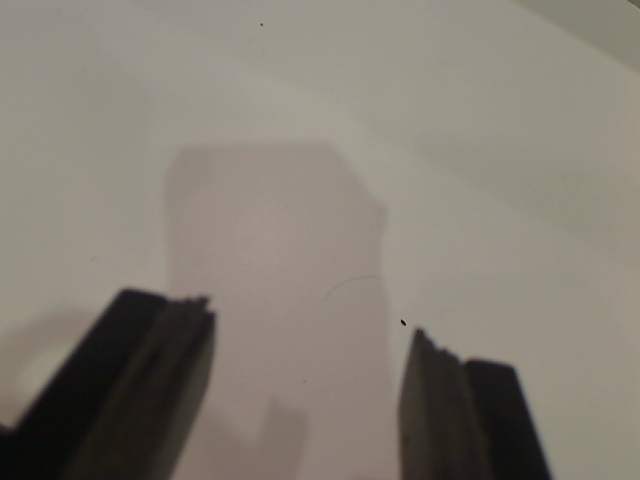
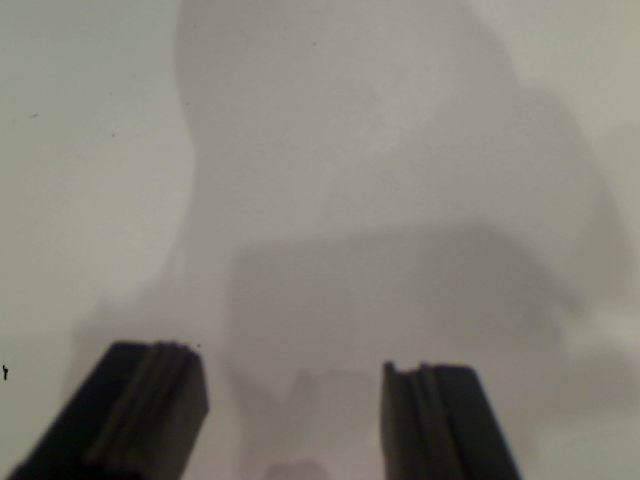
Added background image subtraction as well as updated the background image (background.png) so that the visual serving would no longer be confused by the grippers on the YouBot.

diff --git a/raw_object_perception/raw_blob_detection/src/blob_detection.cpp b/raw_object_perception/raw_blob_detection/src/blob_detection.cpp
@@ -132,31 +132,34 @@ public:
       ROS_ERROR( "Error converting from ROS image message to OpenCV IplImage" );
     }
 
-    IplImage* temp_img = cvCreateImage( cvGetSize( background_image ), IPL_DEPTH_8U, 3); 
-
-    //    This takes a background image (the gripper on a white background) and removes
-    //  it from the current image (cv_image). The results are stored again in cv_image.
-    cvSub( cv_image, background_image, temp_img, NULL ); 
+    IplImage* background_threshold = cvCreateImage( cvGetSize( background_image ), 8, 1 ); 
+    cvCvtColor( background_image, background_threshold, CV_BGR2GRAY ); 
+    cvSmooth( background_threshold, background_threshold, CV_GAUSSIAN, 7, 7 );
+    cvThreshold( background_threshold, background_threshold, 0, 255, CV_THRESH_BINARY_INV | CV_THRESH_OTSU );   
 
     //  Obtain image properties that we require. 
     master_image_width = cv_image->width; 
     master_image_height = cv_image->height; 
 
-    IplImage* gray = cvCreateImage( cvGetSize( cv_image ), 8, 1 );
-    cvCvtColor( cv_image, gray, CV_BGR2GRAY );
-
-    cvSmooth( cv_image, cv_image, CV_GAUSSIAN, 7, 7 );
-
     blob_image = cvCreateImage( cvGetSize( cv_image ), 8, 3 ); 
 
+    IplImage* gray = cvCreateImage( cvGetSize( cv_image ), 8, 1 );
+    cvCvtColor( cv_image, gray, CV_BGR2GRAY );
+    cvSmooth( gray, gray, CV_GAUSSIAN, 7, 7 );
     cvThreshold( gray, gray, 0, 255, CV_THRESH_BINARY_INV | CV_THRESH_OTSU );
+    
+    IplImage* temp_img = cvCreateImage( cvGetSize( background_image ), 8, 1); 
+
+    //    This takes a background image (the gripper on a white background) and removes
+    //  it from the current image (cv_image). The results are stored again in cv_image.
+    cvSub( gray, background_threshold, gray, NULL );
 
     // Find any blobs that are not white. 
     CBlobResult blobs = CBlobResult( gray, NULL, 0 );
 
     //  Make sure they are big enough to really be considered.
     //  In this case we will use an area of AT LEAST 100 px. 
-    int minimum_blob_area = 100; 
+    int minimum_blob_area = 300; 
     blobs.Filter( blobs, B_EXCLUDE, CBlobGetArea(), B_LESS, minimum_blob_area ); 
 
     int blob_number = blobs.GetNumBlobs(); 
@@ -330,13 +333,11 @@ public:
     std::string rot_str = "Rotation: "; 
     rot_str += boost::lexical_cast<std::string>( rot_offset ); 
 
-    cvPutText( blob_image, x_str.c_str(), cvPoint( 50, blob_image->height - 10 ), &font, CV_RGB( 255, 0, 0 ) );
-    cvPutText( blob_image, y_str.c_str(),  cvPoint( 200, blob_image->height - 10 ), &font, CV_RGB( 255, 0, 0 ) );
+    cvPutText( blob_image, x_str.c_str(), cvPoint( 10, blob_image->height - 10 ), &font, CV_RGB( 255, 0, 0 ) );
+    cvPutText( blob_image, y_str.c_str(),  cvPoint( 185, blob_image->height - 10 ), &font, CV_RGB( 255, 0, 0 ) );
     cvPutText( blob_image, rot_str.c_str(), cvPoint( 350, blob_image->height - 10 ), &font, CV_RGB( 255, 0, 0 ) );
 
-    cvShowImage( "Found Blobs", blob_image );
-    //cvShowImage( "Background", background_image );  
-    //cvShowImage( "Background Removed", temp_img );                                
+    cvShowImage( "Found Blobs", blob_image );                             
 
     //-------------------------------------------------------------------------
     //----------------------- END OF VISUAL OUTPUT ----------------------------
